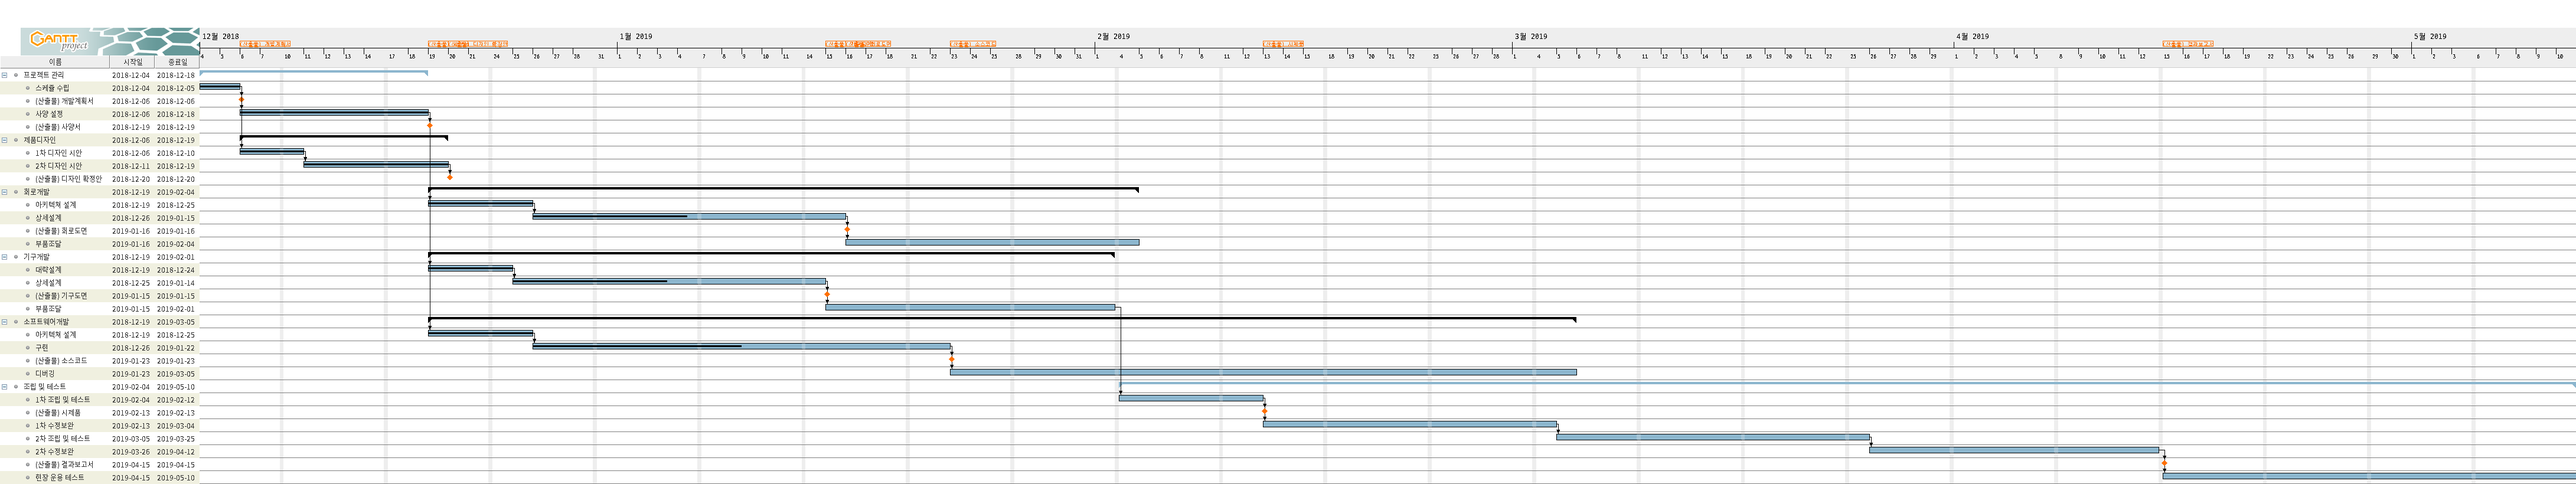
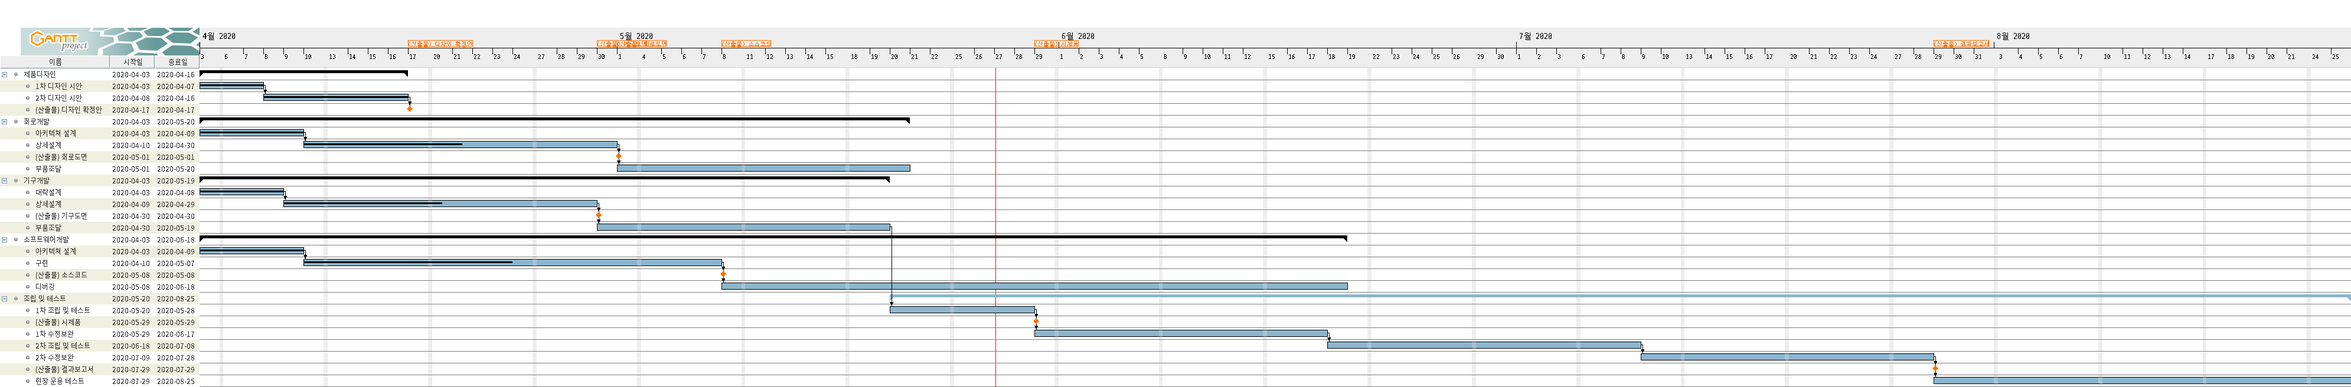
Update to mermaid 8.5.1

Changed region(s): [[0.0, 0.0305, 1.0, 1.0]]

diff --git a/gantt.html b/gantt.html
@@ -6,36 +6,31 @@ gantt
  title 프로젝트 일정계획
  dateFormat YYYY-MM-DD
  axisFormat %Y%m%d
- section 프로젝트 관리
-    스케쥴 수립 : done,2018-12-04,2018-12-05
-    (산출물) 개발계획서 : milestone,2018-12-06,done,2018-12-06
-    사양 설정 : done,2018-12-06,2018-12-18
-    (산출물) 사양서 : milestone,2018-12-19,done,2018-12-19
  section 제품디자인
-    1차 디자인 시안 : done,2018-12-06,2018-12-10
-    2차 디자인 시안 : done,2018-12-11,2018-12-19
-    (산출물) 디자인 확정안 : milestone,2018-12-20,done,2018-12-20
+    1차 디자인 시안 : done,2020-04-03,2020-04-07
+    2차 디자인 시안 : done,2020-04-08,2020-04-16
+    (산출물) 디자인 확정안 : milestone,2020-04-17,done,2020-04-17
  section 회로개발
-    아키텍쳐 설계 : done,2018-12-19,2018-12-25
-    상세설계 : active,2018-12-26,2019-01-15
-    (산출물) 회로도면 : milestone,2019-01-16,2019-01-16
-    부품조달 : 2019-01-16,2019-02-04
+    아키텍쳐 설계 : done,2020-04-03,2020-04-09
+    상세설계 : active,2020-04-10,2020-04-30
+    (산출물) 회로도면 : milestone,2020-05-01,2020-05-01
+    부품조달 : 2020-05-01,2020-05-20
  section 기구개발
-    대략설계 : done,2018-12-19,2018-12-24
-    상세설계 : active,2018-12-25,2019-01-14
-    (산출물) 기구도면 : milestone,2019-01-15,2019-01-15
-    부품조달 : 2019-01-15,2019-02-01
+    대략설계 : done,2020-04-03,2020-04-08
+    상세설계 : active,2020-04-09,2020-04-29
+    (산출물) 기구도면 : milestone,2020-04-30,2020-04-30
+    부품조달 : 2020-04-30,2020-05-19
  section 소프트웨어개발
-    아키텍쳐 설계 : done,2018-12-19,2018-12-25
-    구현 : active,2018-12-26,2019-01-22
-    (산출물) 소스코드 : milestone,2019-01-23,2019-01-23
-    디버깅 : 2019-01-23,2019-03-05
+    아키텍쳐 설계 : done,2020-04-03,2020-04-09
+    구현 : active,2020-04-10,2020-05-07
+    (산출물) 소스코드 : milestone,2020-05-08,2020-05-08
+    디버깅 : 2020-05-08,2020-06-18
  section 조립 및 테스트
-    1차 조립 및 테스트 : 2019-02-04,2019-02-12
-    (산출물) 시제품 : milestone,2019-02-13,2019-02-13
-    1차 수정보완 : 2019-02-13,2019-03-04
-    2차 조립 및 테스트 : 2019-03-05,2019-03-25
-    2차 수정보완 : 2019-03-26,2019-04-12
-    (산출물) 결과보고서 : milestone,2019-04-15,2019-04-15
+    1차 조립 및 테스트 : 2020-05-20,2020-05-28
+    (산출물) 시제품 : milestone,2020-05-29,2020-05-29
+    1차 수정보완 : 2020-05-29,2020-06-17
+    2차 조립 및 테스트 : 2020-06-18,2020-07-08
+    2차 수정보완 : 2020-07-09,2020-07-28
+    (산출물) 결과보고서 : milestone,2020-07-29,2020-07-29
 </div>
 </html>

diff --git a/g2m.py b/g2m.py
@@ -5,7 +5,6 @@ V20200501
 by Dymaxion.kim@gmail.com
 """
 
-import os
 import csv
 
 # Input file name (csv file)
